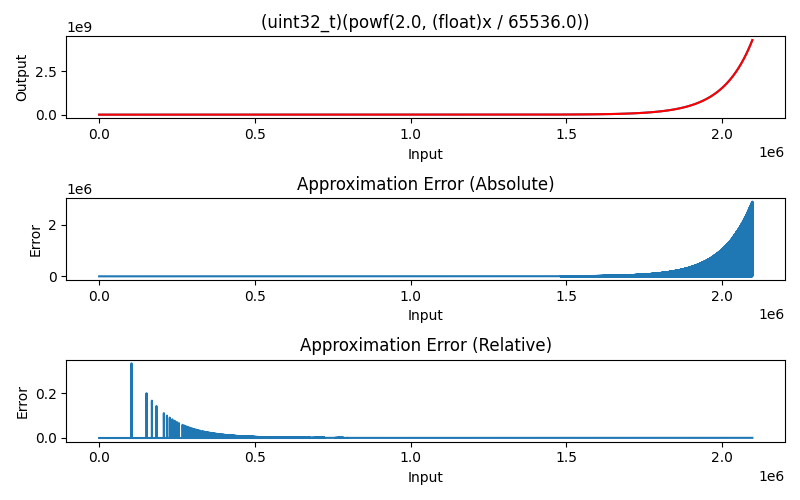
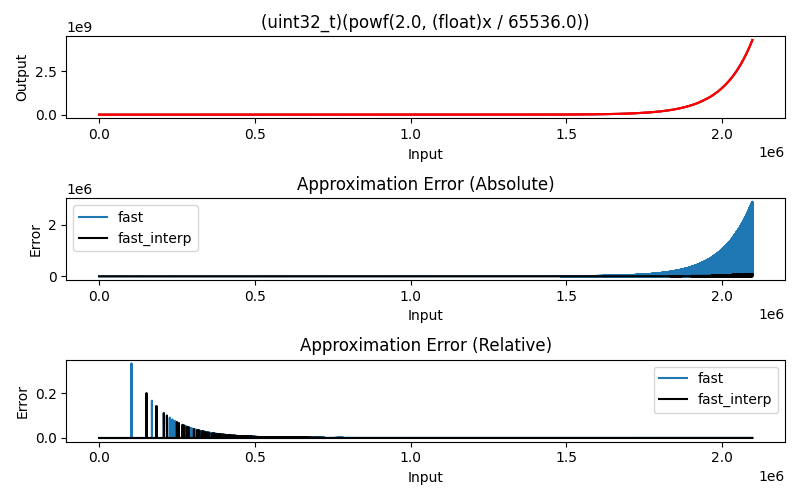
Much better performance with interpolated algorithm.

diff --git a/pow2/main.c b/pow2/main.c
@@ -33,9 +33,36 @@ static inline uint32_t pow2_reference(const uint32_t x)
 }
 
 // ----------------------------------------------------------------------------
+static inline uint32_t lutRead_interp(const uint32_t value)
+{
+  // ...
+  uint32_t ind = value >> 6;
+  uint32_t ind_frac = value - (ind << 6);
+  uint32_t ratio_6b = ind_frac;
+
+  // ...
+  uint32_t y0 = lut_pow2[(ind + 0)];
+  uint32_t y1 = lut_pow2[(ind + 1)];
+  int64_t diff = y1 - y0;
+  
+  // ...
+  return (y0 + ((diff * ratio_6b) >> 6));
+}
+
+// ----------------------------------------------------------------------------
 static inline uint32_t lutRead(const uint32_t value)
 {
   return lut_pow2[value >> 6];
+}
+
+// ----------------------------------------------------------------------------
+static inline uint32_t pow2_fast_interp(const uint32_t x)
+{
+  // ...
+  uint32_t N = x >> 16;
+  uint32_t remainder = x & 0x0000FFFF;
+  uint64_t scale = lutRead_interp(remainder);  
+  return (uint32_t)((scale << N) >> 16);
 }
 
 // ----------------------------------------------------------------------------
@@ -43,10 +70,9 @@ static inline uint32_t pow2_fast(const uint32_t x)
 {
   // ...
   uint32_t N = x >> 16;
-  uint32_t base = (1 << N);
   uint32_t remainder = x & 0x0000FFFF;
-  uint32_t scale = lutRead(remainder);
-  return ((uint64_t)base * scale) >> 16;;
+  uint64_t scale = lutRead(remainder);  
+  return (uint32_t)((scale << N) >> 16);
 }
 
 // ----------------------------------------------------------------------------
@@ -66,7 +92,9 @@ int main()
   // ...
   for(uint32_t x=start;x<end;x+=step)
   {
-    fprintf(fp, "%u,%u,%u\r\n", x, pow2_fast(x), pow2_reference(x));
+    fprintf(fp, "%u,%u,%u,%u\r\n", 
+      x, pow2_fast(x), pow2_fast_interp(x), pow2_reference(x)
+    );
   }
 
   // ...

diff --git a/pow2/scripts/analyse.py b/pow2/scripts/analyse.py
@@ -31,7 +31,8 @@ dat = iter_loadtxt(sys.argv[1])
 # ...
 x = dat[:,0]
 log2_fast = dat[:,1]
-log2_ref = dat[:,2]
+log2_fast_interp = dat[:,2]
+log2_ref = dat[:,3]
 
 # ...
 relative_err = (log2_ref - log2_fast) / log2_ref
@@ -42,6 +43,14 @@ print("[Relative Error] mean: %f stddev: %f variance: %f" % (
 ))
 
 # ...
+relative_err_interp = (log2_ref - log2_fast_interp) / log2_ref
+print("[Relative Error] mean: %f stddev: %f variance: %f (Interpolated)" % (
+  np.mean(relative_err_interp), 
+  np.std(relative_err_interp), 
+  np.var(relative_err_interp)
+))
+
+# ...
 plt.figure(figsize=(8, 5))
 plt.subplot(3,1,1)
 plt.title("(uint32_t)(powf(2.0, (float)x / 65536.0))")
@@ -49,18 +58,23 @@ plt.xlabel("Input", fontsize=10)
 plt.ylabel("Output", fontsize=10)
 plt.plot(x, log2_ref, label="reference")
 plt.plot(x, log2_fast, "r")
+plt.plot(x, log2_fast_interp, "r")
 plt.tight_layout()
 plt.subplot(3,1,2)
 plt.title("Approximation Error (Absolute)")
 plt.xlabel("Input", fontsize=10)
 plt.ylabel("Error", fontsize=10)
-plt.plot(x, log2_ref - log2_fast)
+plt.plot(x, log2_ref - log2_fast, label="fast")
+plt.plot(x, log2_ref - log2_fast_interp, "k", label="fast_interp")
+plt.legend()
 plt.tight_layout()
 plt.subplot(3,1,3)
 plt.title("Approximation Error (Relative)")
 plt.xlabel("Input", fontsize=10)
 plt.ylabel("Error", fontsize=10)
-plt.plot(x, relative_err)
+plt.plot(x, relative_err, label="fast")
+plt.plot(x, relative_err_interp, "k", label="fast_interp")
+plt.legend()
 plt.tight_layout()
 plt.savefig("./doc/error_analysis.png")
 plt.show()

diff --git a/pow2/Readme.md b/pow2/Readme.md
@@ -1,21 +1,54 @@
 ## What?
 
-Calculates 2<sup>x</sup> where x is Q16 format fixed point number. 
+Calculates 2<sup>x</sup> where x is Q16 format fixed point fractional number. 
+
+This algorithm, also, doesn't use any division, loop or branch instructions which makes it fast and constant run time.
 
 ## Input / Output range
 
 * Input must be between 0 and ((32 * 65536) - 1)
-* Output is greater than 0 and smaller than (2<sup>32</sup> - 1)
+* Output is greater than 0 and smaller than 2<sup>32</sup>
+
+## Reference Implementation
+
+```c
+uint32_t pow2_reference(uint32_t x)
+{
+  return (uint32_t)(powf(2.0, (float)x / 65536.0));
+}
+```
+
+## Core Algorithm
+
+```c
+uint32_t pow2_fast(uint32_t x)
+{
+  uint32_t N = x >> 16;
+  uint32_t remainder = x & 0x0000FFFF;
+  uint64_t scale = lutRead(remainder);  
+  return (uint32_t)((scale << N) >> 16);
+}
+```
 
 ## Error analysis
 
 ![](./doc/error_analysis.png)
 
 * In this particular example, 1024 length lookup table is used.
+* Size of the lookup table can be increased for reduced error performance. Or, table can be read with linear interpolation for reduced error performance.
 * Relative error statistics:
 	- mean: *0.000328* 
 	- stddev: *0.002606* 
 	- variance: *0.000007*
+* Relative error statistics with 64x interpolation:
+	- mean: *0.000007* 
+	- stddev: *0.000245* 
+	- variance: *0.000000*
+
+## Implementation
+
+* `./scripts/lutgen_pow2.py` for lookup table generation.
+* `main.c` for the *fast* and *fast & interpolated* version of the algorithm.
 
 ## Licence
 
